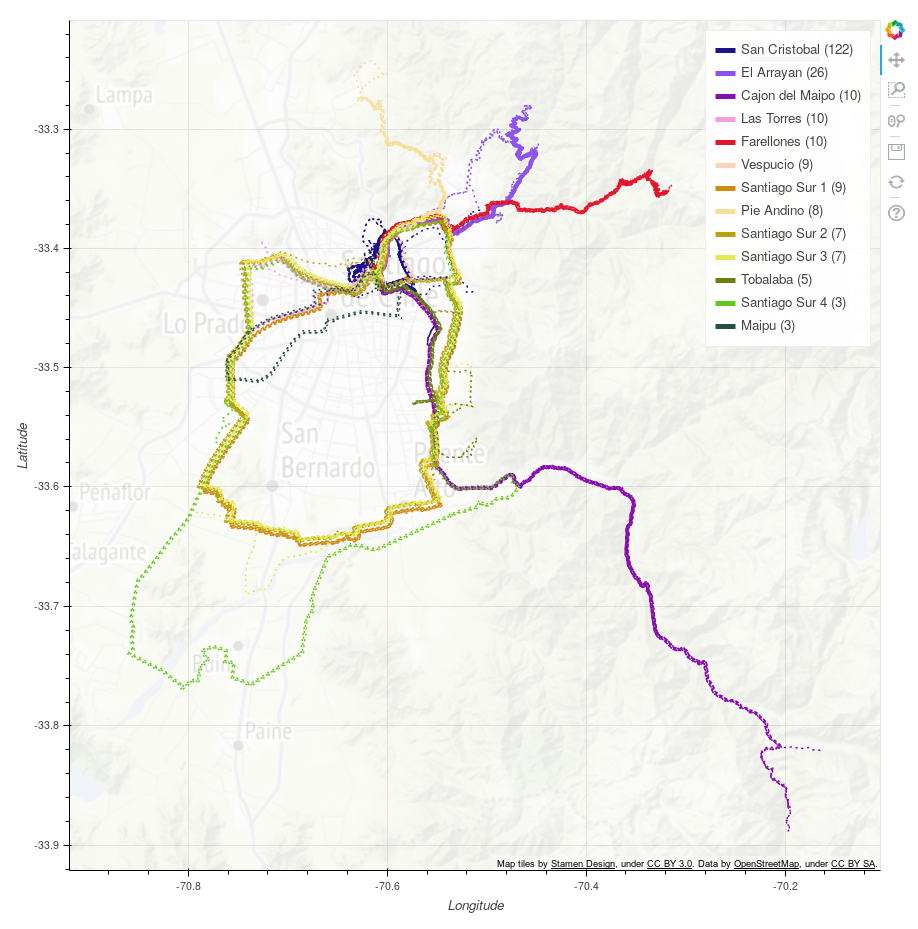
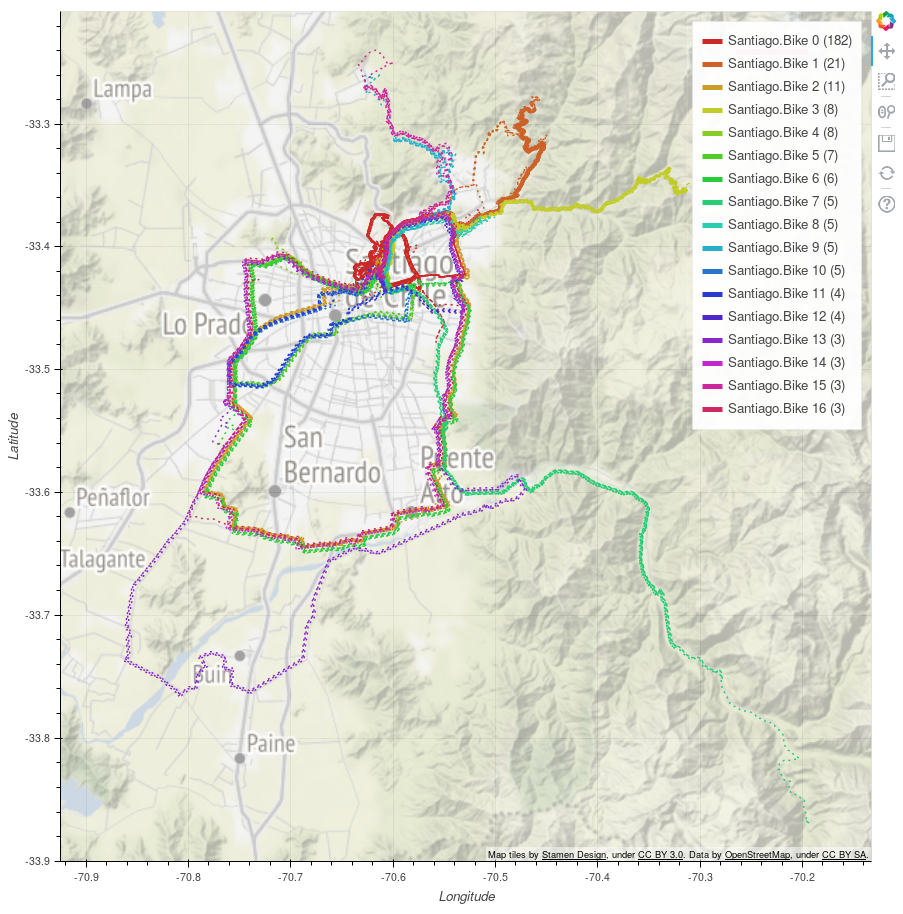
update nearby docs docs

diff --git a/ch2/jupyter/template/nearby_activities.py b/ch2/jupyter/template/nearby_activities.py
@@ -38,7 +38,7 @@ def nearby_activities(constraint):
 
     output_notebook()
     f = figure(plot_width=900, plot_height=900, x_axis_type='mercator', y_axis_type='mercator')
-    f.add_tile(STAMEN_TERRAIN, alpha=0.8)
+    f.add_tile(STAMEN_TERRAIN, alpha=0.5)
 
     for i in range(n_groups):
         source_ids = groups.loc[groups.group == i].activity_journal_id

diff --git a/docs/nearby.md b/docs/nearby.md
@@ -22,7 +22,7 @@ This is how [Choochoo](index) identifies these related routes.
       * [Pipeline](#pipeline)
       * [Constants](#constants)
   * [Results](#results)
-    * [Images](#images)
+    * [Image](#image)
     * [Diary](#diary)
   * [Appendix - DIY](#appendix---diy)
 
@@ -138,45 +138,32 @@ called `Nearby.Bike`.
 
 The current value can be displayed with:
 
-    > ch2 constants Nearby.Bike
+    > ch2 constants show Nearby.Bike
     Nearby.Bike: Data needed to calculate nearby activities - see Nearby enum
-    1970-01-01 00:00:00+00:00: {"constraint": "Santiago", "activity_group": "Bike", "border": 3, "start": "1970", "finish": "2999", "latitude": -33.4, "longitude": -70.4, "height": 10, "width": 10}
+    1970-01-01 00:00:00+00:00: {"constraint": "Santiago.Bike", "activity_group": "Bike", "border": 3, "start": "1970", "finish": "2999", "latitude": -33.4, "longitude": -70.4, "height": 10, "width": 10}
 
 A new value can be given using `--set --force` (force is needed
 because you are overwriting an existing value).  For example:
 
-    > ch2 constants --set --force Nearby.Bike '{"constraint": "London", "activity_group": "Bike", "border": 3, "start": "1970", "finish": "2999", "latitude": 51.5, "longitude": 0.1, "height": 10, "width": 10}'
+    > ch2 constants set --force Nearby.Bike '{"constraint": "London.Bike", "activity_group": "Bike", "border": 3, "start": "1970", "finish": "2999", "latitude": 51.5, "longitude": 0.1, "height": 10, "width": 10}'
     INFO: Using database at /home/andrew/.ch2/database.sqln
     INFO: Checking any previous values
     INFO: Need to delete 1 ConstantJournal entries
-    INFO: Added value {"constraint": "London", "activity_group": "Bike", "border": 3, "start": "1970", "finish": "2999", "latitude": 51.5, "longitude": 0.1, "height": 10, "width": 10} at None for Nearby.Bike
+    INFO: Added value {"constraint": "London.Bike", "activity_group": "Bike", "border": 3, "start": "1970", "finish": "2999", "latitude": 51.5, "longitude": 0.1, "height": 10, "width": 10} at None for Nearby.Bike
     WARNING: You may want to (re-)calculate statistics
 
 ## Results
 
-### Images
+### Image
 
 ![](nearby-santiago.png)
 
-Images are generated using a [Jupyter
-notebook](https://github.com/andrewcooke/choochoo/blob/master/notebooks/plot-groups.ipynb)
-with Bokeh.
+The image above is generated in Jupyter using the nearby_activities
+template:
 
-The image above shows all the groups identified in my current data.
-The number of rides in each group is given in the legend.
+    > ch2 jupyter show nearby_activities Santiago,Bike
 
-In general the grouping makes intuitive sense, although some groups
-(eg Santiago and Santiago 2) are arguably too fragmented.
-
-![](nearby-sc.png)
-
-The largest group (San Cristobal) is shown above (mid upper left in
-the first image).  These all involve the main path through the park
-(and climb) nearest my house.
-
-Some of the routes in this park double back on themselves.  This
-doubling may explain why such diverse routes are grouped together (see
-comment on double-counting above).
+In general the grouping makes intuitive sense.
 
 ### Diary
 
@@ -206,13 +193,11 @@ To generate similar plots for your own rides:
 
   * Load your FIT data:
 
-        > ch2 activities Bike path/to/*.fit
-
-    (use `Run` instead of `Bike` if these are runs).
+        > ch2 activities path/to/*.fit
 
   * Start Jupyter:
 
-        > jupyter
+        > ch2 jupyter show nearby_activities 
 
     which will automatically appear in your web browser.
 
